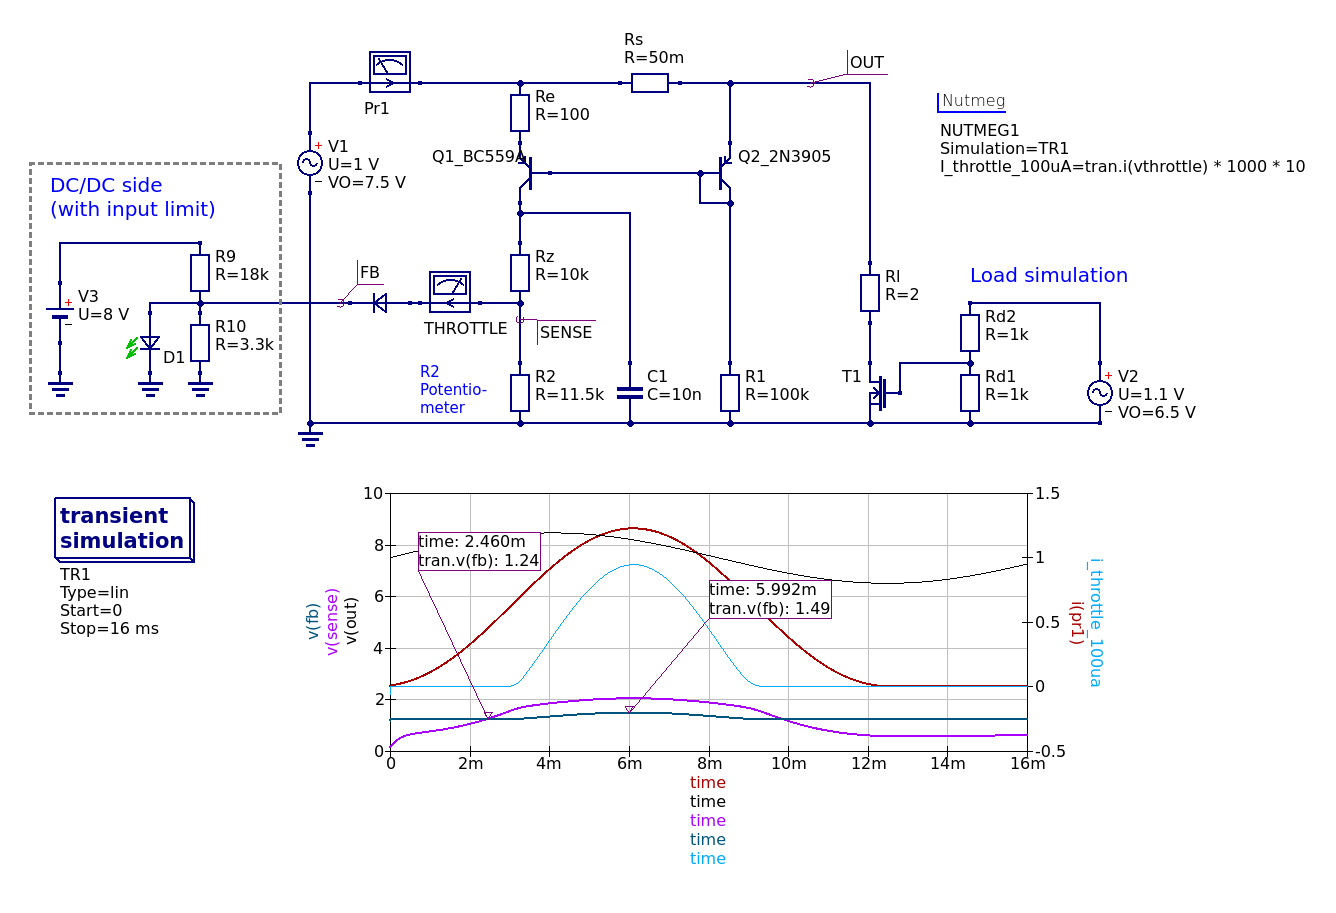
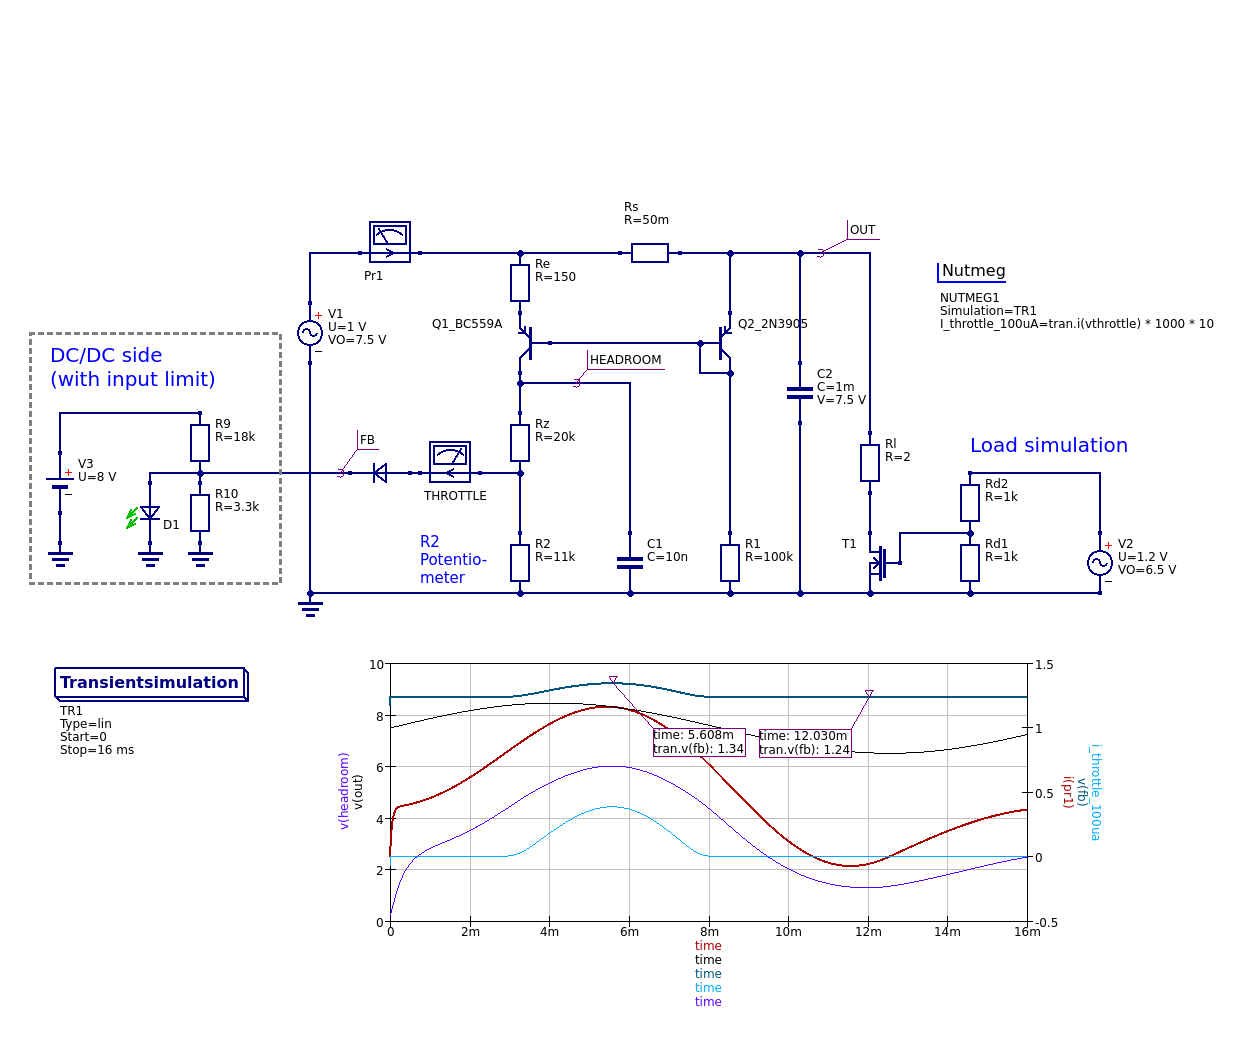
Improve current sense circuit

diff --git a/examples/Current Sense/README.md b/examples/Current Sense/README.md
@@ -25,7 +25,7 @@ Use-cases:
 2. `Q1` and `Q2` are of different types to highlight that they are not a matched pair.
    However, a low difference in h<sub>fe</sub> is recommended, also to ensure similar V<sub>eb</sub>.
 3. Depending on the application, `Re` may have to be as low as 0 Ω. This also depends on `Rs`.
-4. `R2` should be fine-tuned to the desired voltage.
+4. `R2` should be fine-tuned to the desired threshold.
 
 ## Proper industrial solutions
 
